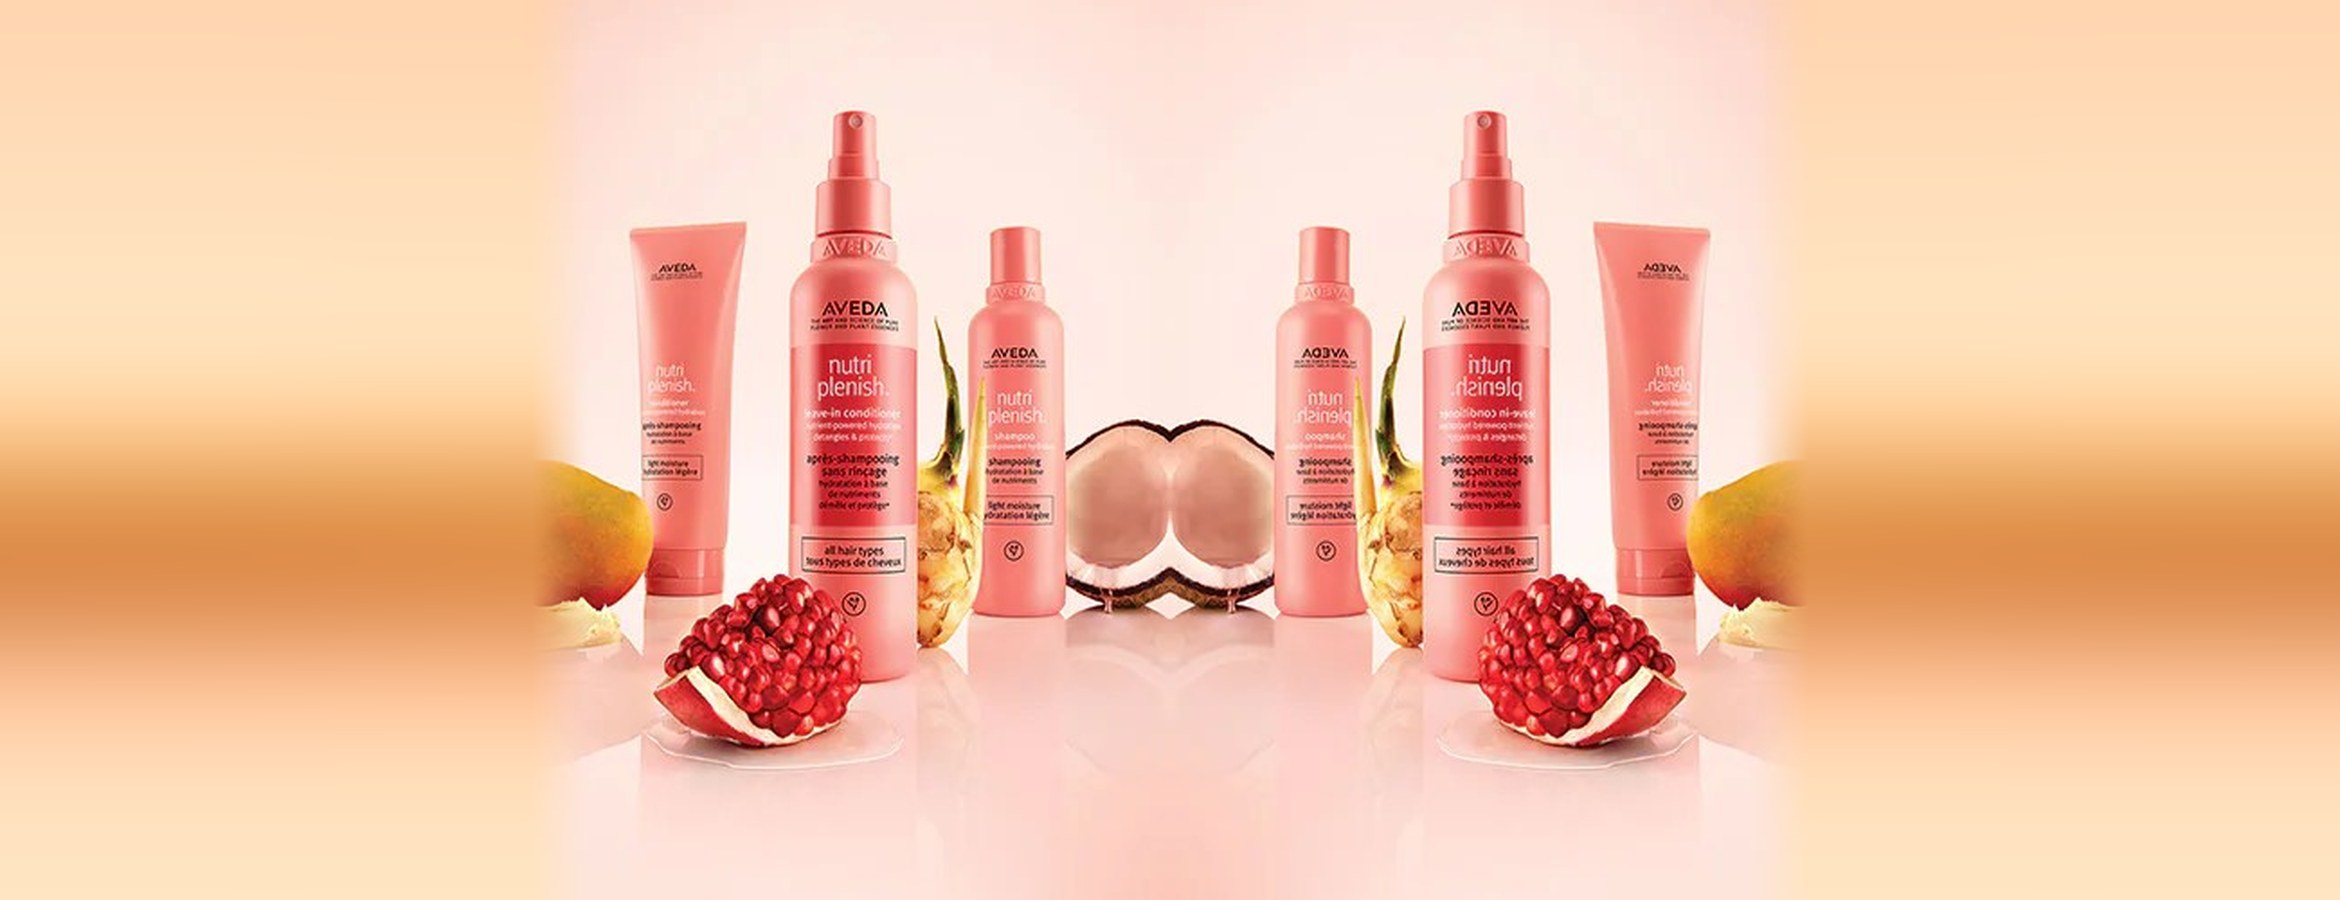
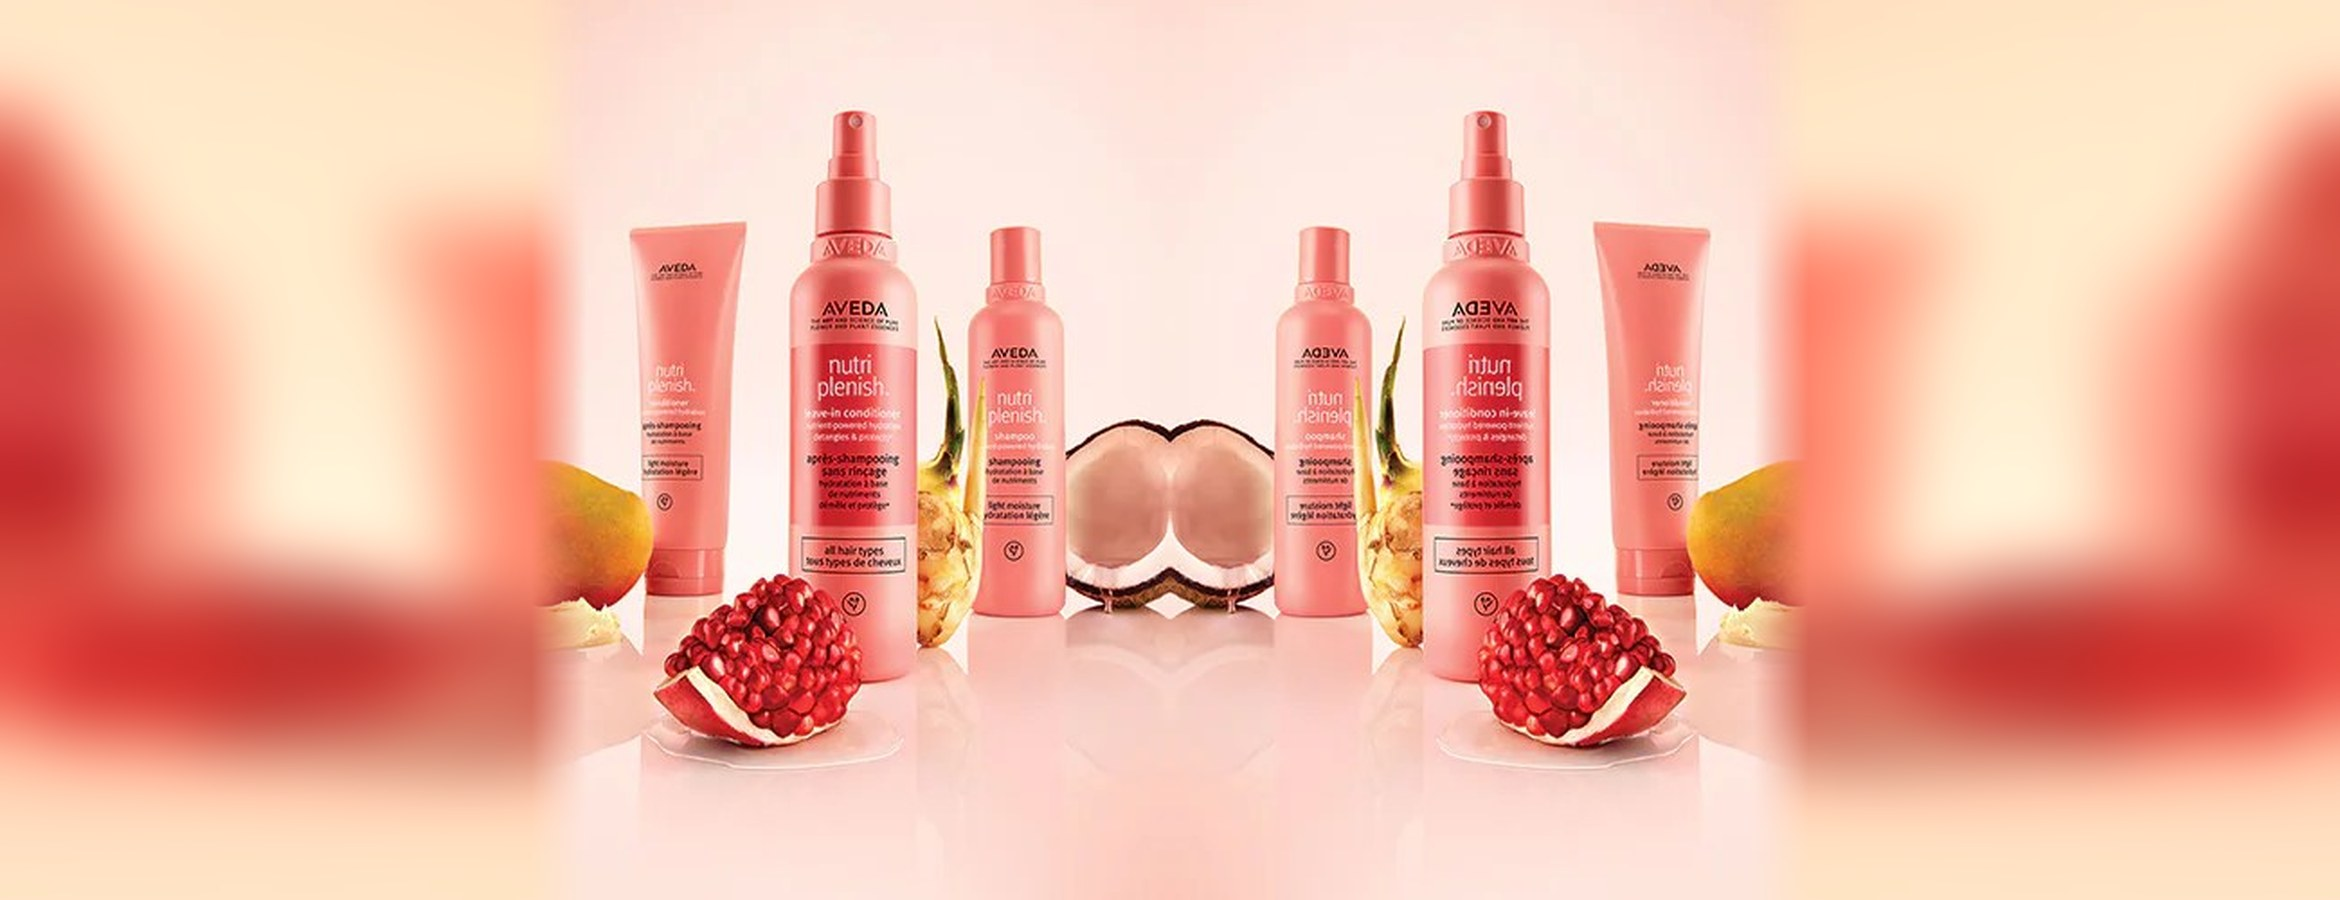
Carry real light/shadow into the extension instead of flattening it to colour
This was the actual reason the seam still read as a harsh line even
after matching colour and widening the feather: the corner fill was
collapsed down to a near-flat gradient, so a photo with real lighting
(shadows, highlights, reflections) hit an abrupt flat colour the
moment the real content ended. Samples a much wider strip of the
photo's own edge now (160px+, not 10-24px) with a lighter blur, so the
actual shapes/light carry into the extension — reads as the scene
continuing, not a wash.

Also adds a cache-busting version query string to every brand photo
URL (bump BRAND_PHOTO_VERSION next time any of these files changes in
place) — these exact filenames have been edited in place many times
this session and kept getting served stale from cache.

Changed region(s): [[0.7487, 0.0933, 1.0, 0.9022], [0.0, 0.0933, 0.2496, 0.9022]]

diff --git a/src/lib/ui.jsx b/src/lib/ui.jsx
@@ -617,28 +617,36 @@ export function DoodlePalette({ size = 19, active }) {
 // header, the Home welcome-banner rotation, the brand tiles, and the
 // registration-page phone preview — a single lookup so every surface stays
 // in sync if a crop or brand match ever needs tuning.
+// Bumped every time any file in public/brand-headers/ is edited in place
+// (same filename, new bytes) — these got hit by stale CDN/browser caching
+// more than once since the path alone doesn't change. A query string on
+// the URL forces every client to fetch fresh without having to rename
+// files each time.
+const BRAND_PHOTO_VERSION = 7;
+
 export function brandHeaderPhoto(name) {
   const n = (name || "").toLowerCase();
   const isColour = n.includes("colour") || n.includes("color") && !n.includes("color wow");
+  const v = `?v=${BRAND_PHOTO_VERSION}`;
   // bannerPosition is plain "center" — each of these files now has its
   // real photo content baked in on BOTH left and right edges (mirrored),
   // with blur filling only the middle, so centering the whole file keeps
   // it symmetric regardless of how much extra width the stage has.
   if (n.includes("kevin")) {
     return isColour
-      ? { src: "/brand-headers/kevinmurphy_colour.jpg", position: "center", bannerPosition: "center" }
-      : { src: "/brand-headers/kevinmurphy2.jpg", position: "center", bannerPosition: "center" };
+      ? { src: `/brand-headers/kevinmurphy_colour.jpg${v}`, position: "center", bannerPosition: "center" }
+      : { src: `/brand-headers/kevinmurphy2.jpg${v}`, position: "center", bannerPosition: "center" };
   }
   if (n.includes("eleven")) {
     return isColour
-      ? { src: "/brand-headers/eleven_colour.jpg", position: "center 15%", bannerPosition: "center" }
-      : { src: "/brand-headers/eleven2.jpg", position: "center", bannerPosition: "center" };
+      ? { src: `/brand-headers/eleven_colour.jpg${v}`, position: "center 15%", bannerPosition: "center" }
+      : { src: `/brand-headers/eleven2.jpg${v}`, position: "center", bannerPosition: "center" };
   }
-  if (n.includes("davines")) return { src: "/brand-headers/davines2.jpg", position: "center", bannerPosition: "center" };
-  if (n.includes("aveda")) return { src: "/brand-headers/aveda2.jpg", position: "center", bannerPosition: "center" };
-  if (n.includes("k18")) return { src: "/brand-headers/k18.jpg", position: "center", bannerPosition: "center" };
-  if (n.includes("color wow")) return { src: "/brand-headers/colorwow2.jpg", position: "center", bannerPosition: "center" };
-  if (n.includes("living proof")) return { src: "/brand-headers/livingproof.jpg", position: "center 10%", bannerPosition: "center" };
+  if (n.includes("davines")) return { src: `/brand-headers/davines2.jpg${v}`, position: "center", bannerPosition: "center" };
+  if (n.includes("aveda")) return { src: `/brand-headers/aveda2.jpg${v}`, position: "center", bannerPosition: "center" };
+  if (n.includes("k18")) return { src: `/brand-headers/k18.jpg${v}`, position: "center", bannerPosition: "center" };
+  if (n.includes("color wow")) return { src: `/brand-headers/colorwow2.jpg${v}`, position: "center", bannerPosition: "center" };
+  if (n.includes("living proof")) return { src: `/brand-headers/livingproof.jpg${v}`, position: "center 10%", bannerPosition: "center" };
   return null;
 }
 
